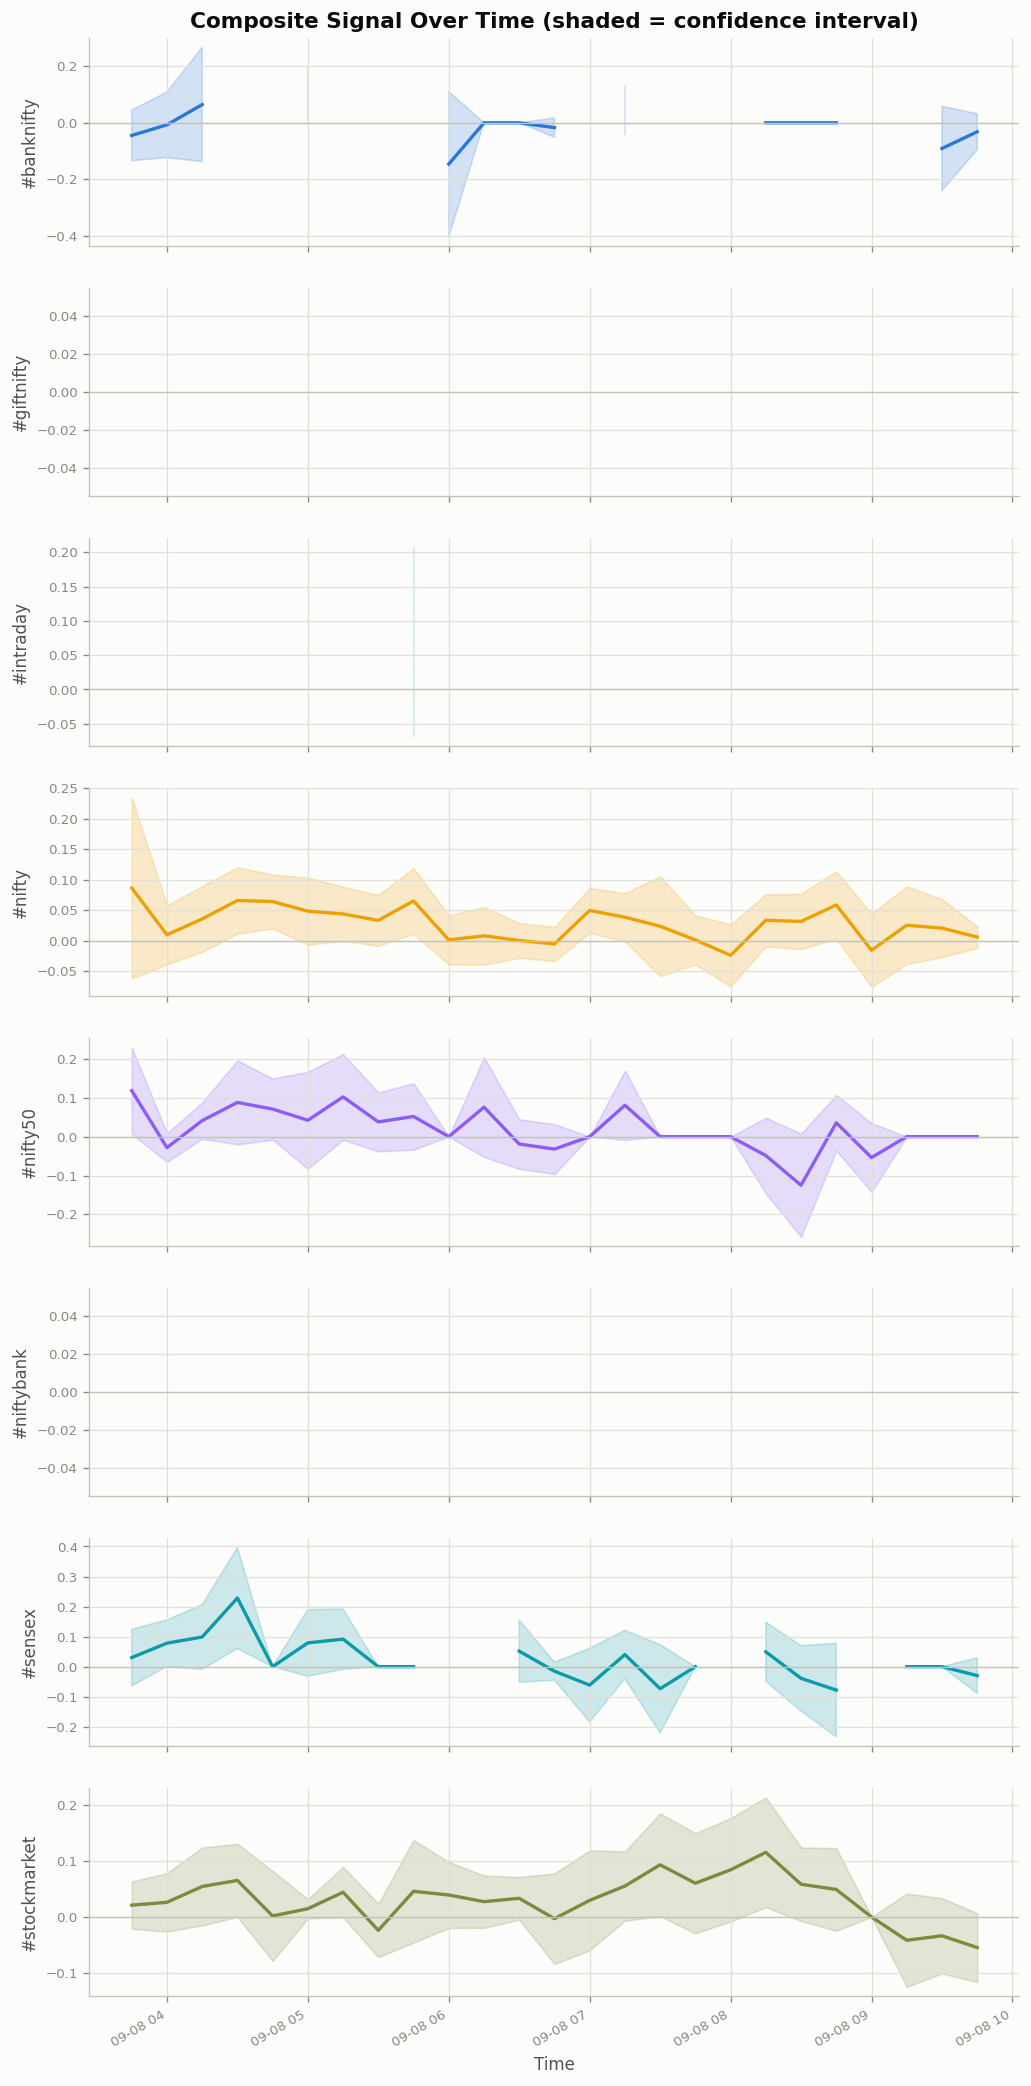
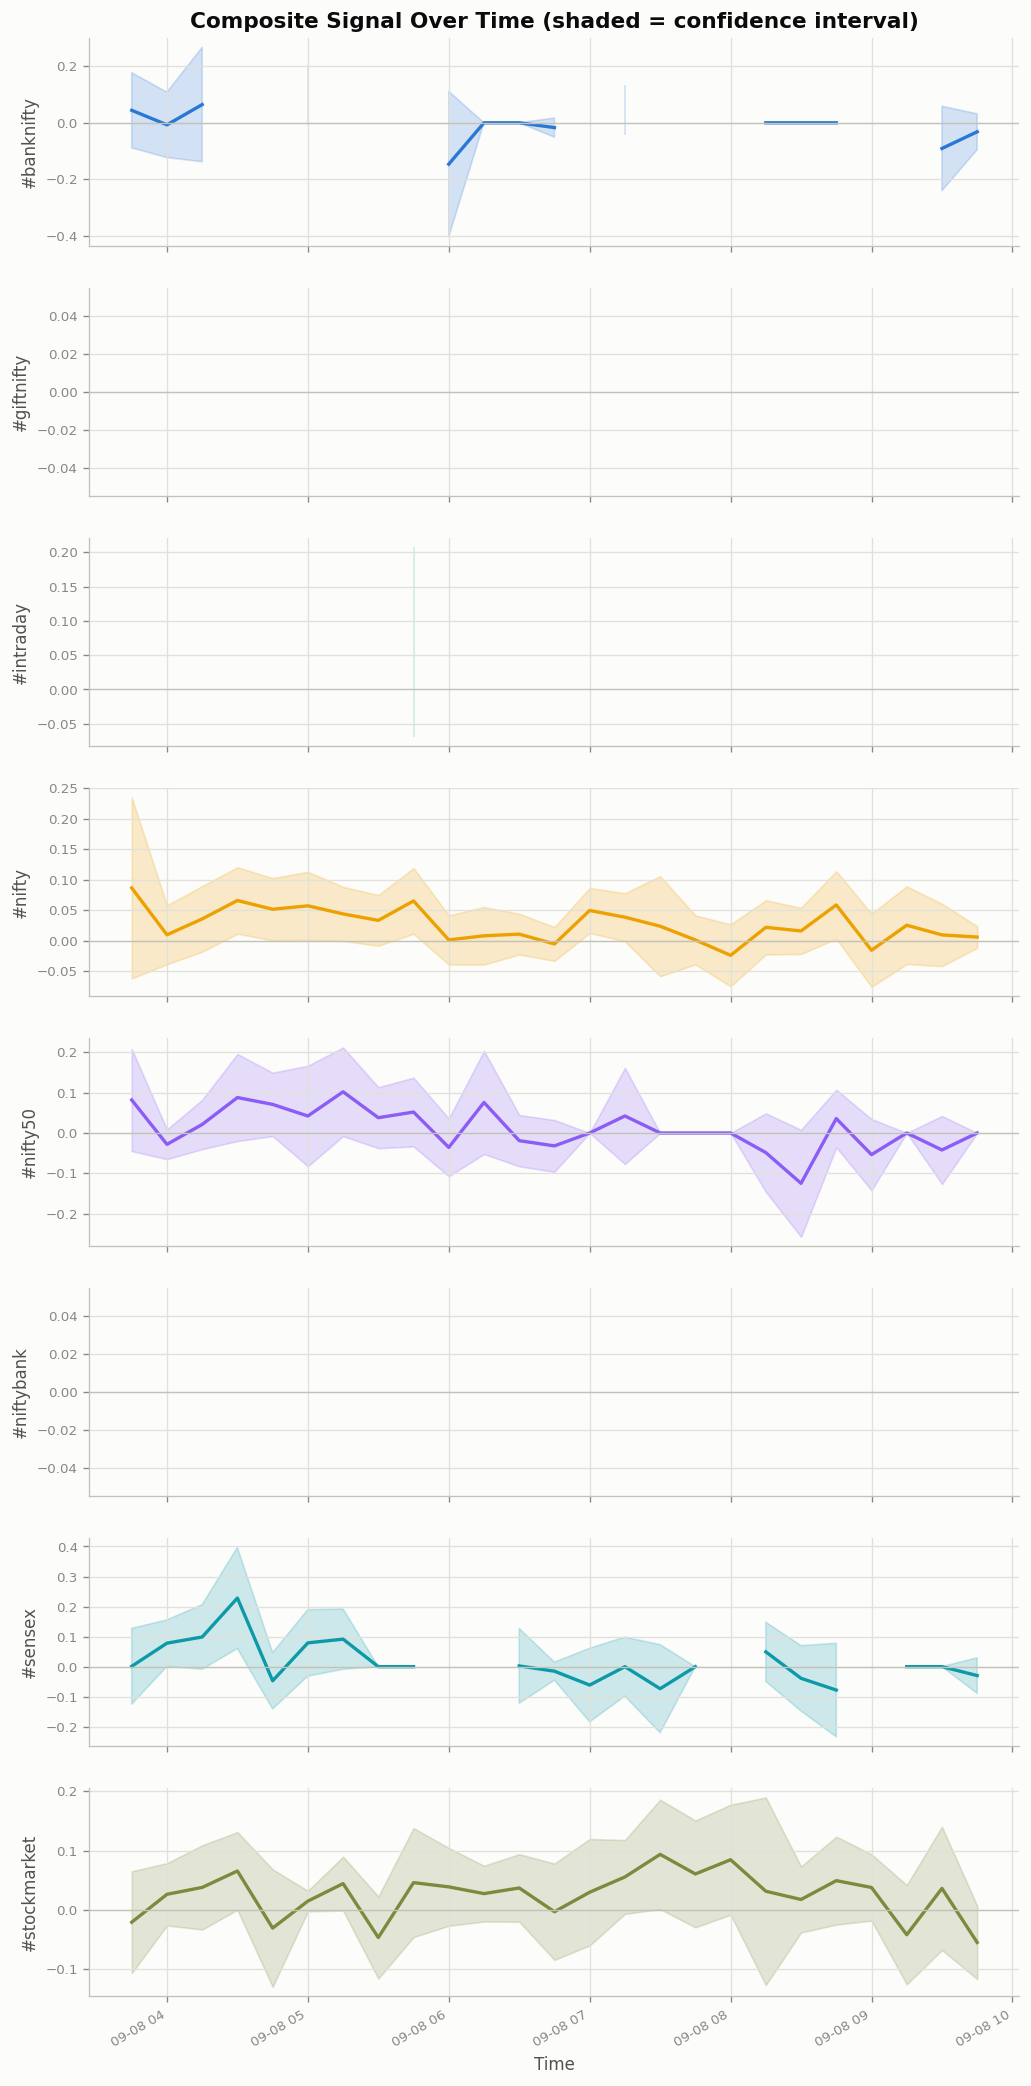
Score Hindi tweets instead of silently reading them as neutral
lang_hint was computed and stored but never consulted, so the 248
Devanagari-bearing tweets were run against a Latin-only lexicon and all
landed at sentiment 0 -- indistinguishable from genuinely balanced.

Two things were wrong. The word-boundary regex used \b, which finds no
boundary after a Devanagari vowel sign: ी is a combining mark and not a
\w character, so \bतेजी\b never matched, and most Hindi sentiment words
end in a matra. Match on "not adjacent to a word char or a Devanagari
char" instead, which is correct for both scripts -- तेजी matches in a
sentence but not inside मंदीरा, and breakout still misses breakoutish.

Then add Devanagari term lists and route on lang_hint: Latin terms for
en, Devanagari for hi, both for mixed. That is also ~20 fewer regex
passes on the 94% of tweets that are Latin-only.

Devanagari tweets go from 0% lexicon coverage to 29%, above the 15%
English rate; 69 now carry real sentiment.

diff --git a/src/analysis/feature_engineering.py b/src/analysis/feature_engineering.py
@@ -11,7 +11,7 @@ import pandas as pd
 from scipy.sparse import spmatrix
 from sklearn.feature_extraction.text import ENGLISH_STOP_WORDS, TfidfVectorizer
 
-from src.utils.config_loader import AnalysisConfig
+from src.utils.config_loader import AnalysisConfig, SentimentLexicon
 
 
 def fit_tfidf(
@@ -46,11 +46,25 @@ def virality_score(likes: int, retweets: int, replies: int) -> float:
 
 _WORD_BOUNDARY_CACHE: dict[str, re.Pattern[str]] = {}
 
+# Devanagari block. Needed in the boundary class below because Python's `\w` covers
+# letters but not the spacing combining marks (category Mc) that Devanagari uses for
+# vowel signs — so `\b` finds no boundary after a word ending in a matra.
+_DEVANAGARI = r"ऀ-ॿ"
+
 
 def _term_pattern(term: str) -> re.Pattern[str]:
+    """Compiles a cached, script-aware whole-word matcher for a lexicon term.
+
+    `\\b` is wrong here: most Hindi sentiment words end in a vowel sign (तेजी, मंदी), which
+    is a combining mark and therefore not a `\\w` character, so `\\bतेजी\\b` never matches —
+    silently, on every Devanagari tweet. Matching "not preceded/followed by a word char or
+    a Devanagari char" instead gets both scripts right: तेजी matches inside a sentence but
+    not inside मंदीरा, and breakout still doesn't match inside breakoutish.
+    """
     pattern = _WORD_BOUNDARY_CACHE.get(term)
     if pattern is None:
-        pattern = re.compile(r"\b" + re.escape(term.lower()) + r"\b")
+        escaped = re.escape(term.lower())
+        pattern = re.compile(rf"(?<![\w{_DEVANAGARI}]){escaped}(?![\w{_DEVANAGARI}])")
         _WORD_BOUNDARY_CACHE[term] = pattern
     return pattern
 
@@ -141,6 +155,27 @@ def hashtag_momentum(bucket_hashtags: list[list[str]], target_hashtags: set[str]
     }
 
 
+def lexicons_for(lang_hint: str, lexicon: SentimentLexicon) -> tuple[list[str], list[str]]:
+    """Selects which term lists to run against a tweet, based on its detected script.
+
+    This is what `lang_hint` is for. A pure-Devanagari tweet can't match a Latin term and
+    vice versa, so routing is both a correctness statement and a saving of ~20 regex
+    passes on the ~94% of tweets that are Latin-only.
+
+      en    -> Latin terms (English + Romanised Hindi)
+      hi    -> Devanagari terms only; there is no Latin text to match
+      mixed -> both, since the tweet genuinely contains both scripts
+    """
+    if lang_hint == "hi":
+        return lexicon.bullish_devanagari, lexicon.bearish_devanagari
+    if lang_hint == "mixed":
+        return (
+            [*lexicon.bullish, *lexicon.bullish_devanagari],
+            [*lexicon.bearish, *lexicon.bearish_devanagari],
+        )
+    return lexicon.bullish, lexicon.bearish
+
+
 def build_feature_frame(df: pd.DataFrame, config: AnalysisConfig) -> pd.DataFrame:
     """Assembles per-tweet engineered features (virality, normalized virality, sentiment).
 
@@ -155,10 +190,21 @@ def build_feature_frame(df: pd.DataFrame, config: AnalysisConfig) -> pd.DataFram
     v_range = (v_max - v_min) or 1.0
     out["virality_norm"] = (out["virality"] - v_min) / v_range
 
-    bullish = config.sentiment_lexicon.bullish
-    bearish = config.sentiment_lexicon.bearish
-    out["sentiment"] = out["text_normalized"].apply(lambda t: sentiment_score(t, bullish, bearish))
-    out["sentiment_matched"] = out["text_normalized"].apply(lambda t: sentiment_lexicon_hit(t, bullish, bearish))
+    # Route each tweet to the lexicon for its script (see lexicons_for). lang_hint is set
+    # by the cleaner during processing; anything missing it is treated as Latin-only.
+    lexicon = config.sentiment_lexicon
+    lang = out["lang_hint"] if "lang_hint" in out.columns else pd.Series("en", index=out.index)
+
+    def _score(text: str, hint: str) -> float:
+        bull, bear = lexicons_for(hint, lexicon)
+        return sentiment_score(text, bull, bear)
+
+    def _matched(text: str, hint: str) -> bool:
+        bull, bear = lexicons_for(hint, lexicon)
+        return sentiment_lexicon_hit(text, bull, bear)
+
+    out["sentiment"] = [_score(t, h) for t, h in zip(out["text_normalized"], lang)]
+    out["sentiment_matched"] = [_matched(t, h) for t, h in zip(out["text_normalized"], lang)]
 
     return out
 

diff --git a/tests/test_analysis.py b/tests/test_analysis.py
@@ -10,8 +10,10 @@ import pytest
 
 from src.analysis.aggregator import rollup
 from src.analysis.feature_engineering import (
+    build_feature_frame,
     fit_tfidf,
     hashtag_momentum,
+    lexicons_for,
     sentiment_score,
     virality_score,
 )
@@ -23,7 +25,7 @@ from src.analysis.signal_generator import (
     composite_signal,
     generate_signals,
 )
-from src.utils.config_loader import load_settings
+from src.utils.config_loader import SentimentLexicon, load_settings
 
 # ---- feature_engineering ---------------------------------------------------
 
@@ -76,6 +78,54 @@ def test_sentiment_lexicon_config_has_no_cancelling_substring_overlap() -> None:
 
     score = sentiment_score("short covering rally in banknifty", bullish, bearish)
     assert score == 1.0
+
+
+def test_sentiment_matches_devanagari_words_ending_in_a_vowel_sign() -> None:
+    """Regression: `\\b` finds no boundary after a Devanagari matra (ी is a combining mark,
+    not a `\\w` char), so `\\bतेजी\\b` silently never matched — and most Hindi sentiment
+    words end in one. Every Devanagari tweet scored exactly neutral because of it."""
+    bullish, bearish = ["तेजी", "मजबूत"], ["मंदी", "गिरावट"]
+    assert sentiment_score("बाजार में तेजी है", bullish, bearish) == 1.0
+    assert sentiment_score("आज मंदी का दौर", bullish, bearish) == -1.0
+    assert sentiment_score("भारी गिरावट दर्ज", bullish, bearish) == -1.0
+
+
+def test_devanagari_terms_still_respect_word_boundaries() -> None:
+    """The looser boundary must not turn into substring matching."""
+    assert sentiment_score("मंदीरा एक नाम है", ["तेजी"], ["मंदी"]) == 0.0
+
+
+def test_latin_boundaries_unaffected_by_the_devanagari_fix() -> None:
+    assert sentiment_score("breakoutish nonsense", ["breakout"], ["breakdown"]) == 0.0
+    assert sentiment_score("nifty breakout now", ["breakout"], ["breakdown"]) == 1.0
+
+
+def test_lexicons_for_routes_on_lang_hint() -> None:
+    lex = SentimentLexicon(
+        bullish=["breakout"], bearish=["breakdown"],
+        bullish_devanagari=["तेजी"], bearish_devanagari=["मंदी"],
+    )
+    assert lexicons_for("en", lex) == (["breakout"], ["breakdown"])
+    assert lexicons_for("hi", lex) == (["तेजी"], ["मंदी"])
+    bull, bear = lexicons_for("mixed", lex)
+    assert bull == ["breakout", "तेजी"] and bear == ["breakdown", "मंदी"]
+
+
+def test_build_feature_frame_scores_hindi_tweets_via_lang_hint() -> None:
+    """End to end: a Devanagari bullish tweet must score positive, not neutral."""
+    settings = load_settings()
+    df = pd.DataFrame(
+        [
+            {"text_normalized": "बाजार में तेजी है", "lang_hint": "hi", "likes": 1, "retweets": 0, "replies": 0},
+            {"text_normalized": "आज गिरावट रही", "lang_hint": "hi", "likes": 1, "retweets": 0, "replies": 0},
+            {"text_normalized": "nifty breakout", "lang_hint": "en", "likes": 1, "retweets": 0, "replies": 0},
+        ]
+    )
+    out = build_feature_frame(df, settings.analysis)
+    assert out.iloc[0]["sentiment"] > 0, "Hindi bullish tweet should not score neutral"
+    assert out.iloc[1]["sentiment"] < 0
+    assert out.iloc[2]["sentiment"] > 0
+    assert out["sentiment_matched"].all()
 
 
 def test_hashtag_momentum_higher_for_more_co_occurring_tags() -> None:

diff --git a/src/utils/config_loader.py b/src/utils/config_loader.py
@@ -88,8 +88,13 @@ class BootstrapConfig(BaseModel):
 
 
 class SentimentLexicon(BaseModel):
+    # Latin-script terms: English plus Romanised Hindi ("tezi", "mandi").
     bullish: list[str]
     bearish: list[str]
+    # Devanagari-script terms, applied only to tweets whose lang_hint says the script is
+    # actually present. Empty is fine.
+    bullish_devanagari: list[str] = []
+    bearish_devanagari: list[str] = []
 
 
 class AnalysisConfig(BaseModel):
